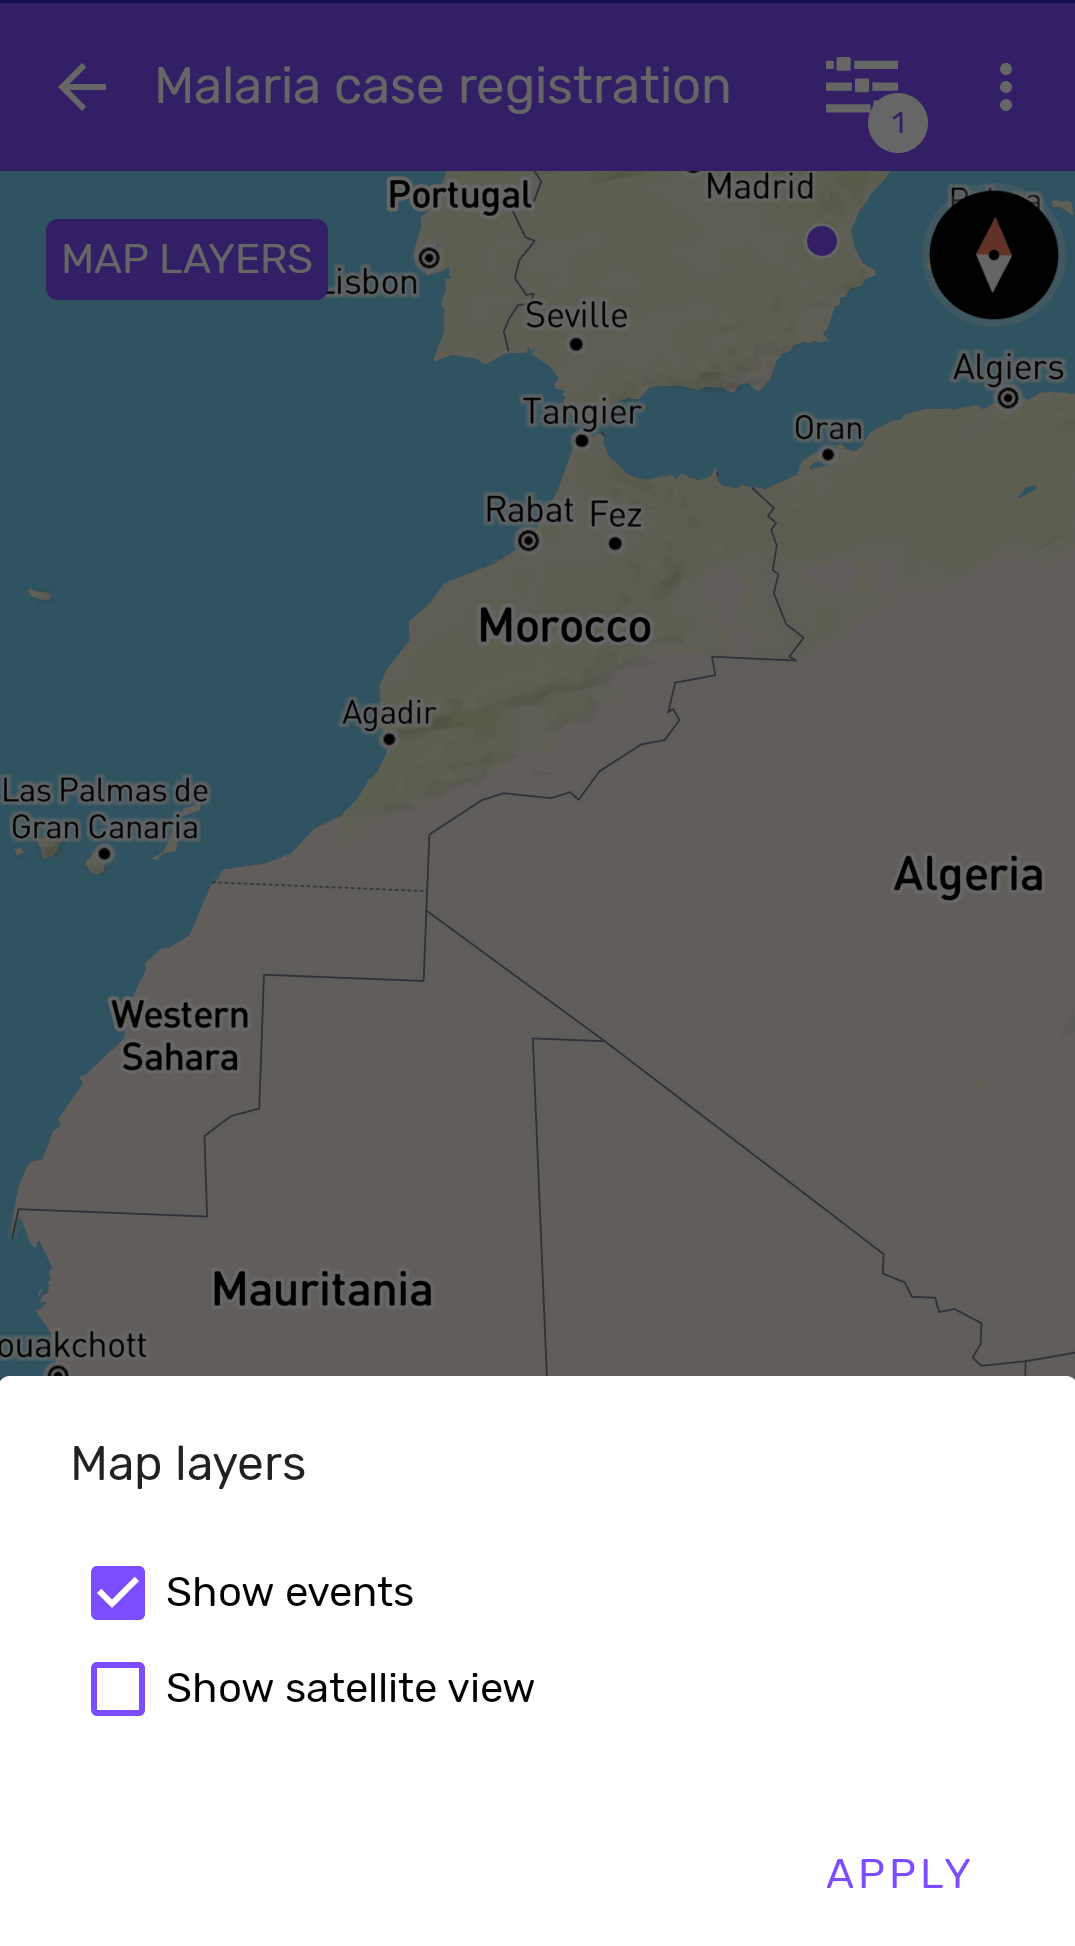
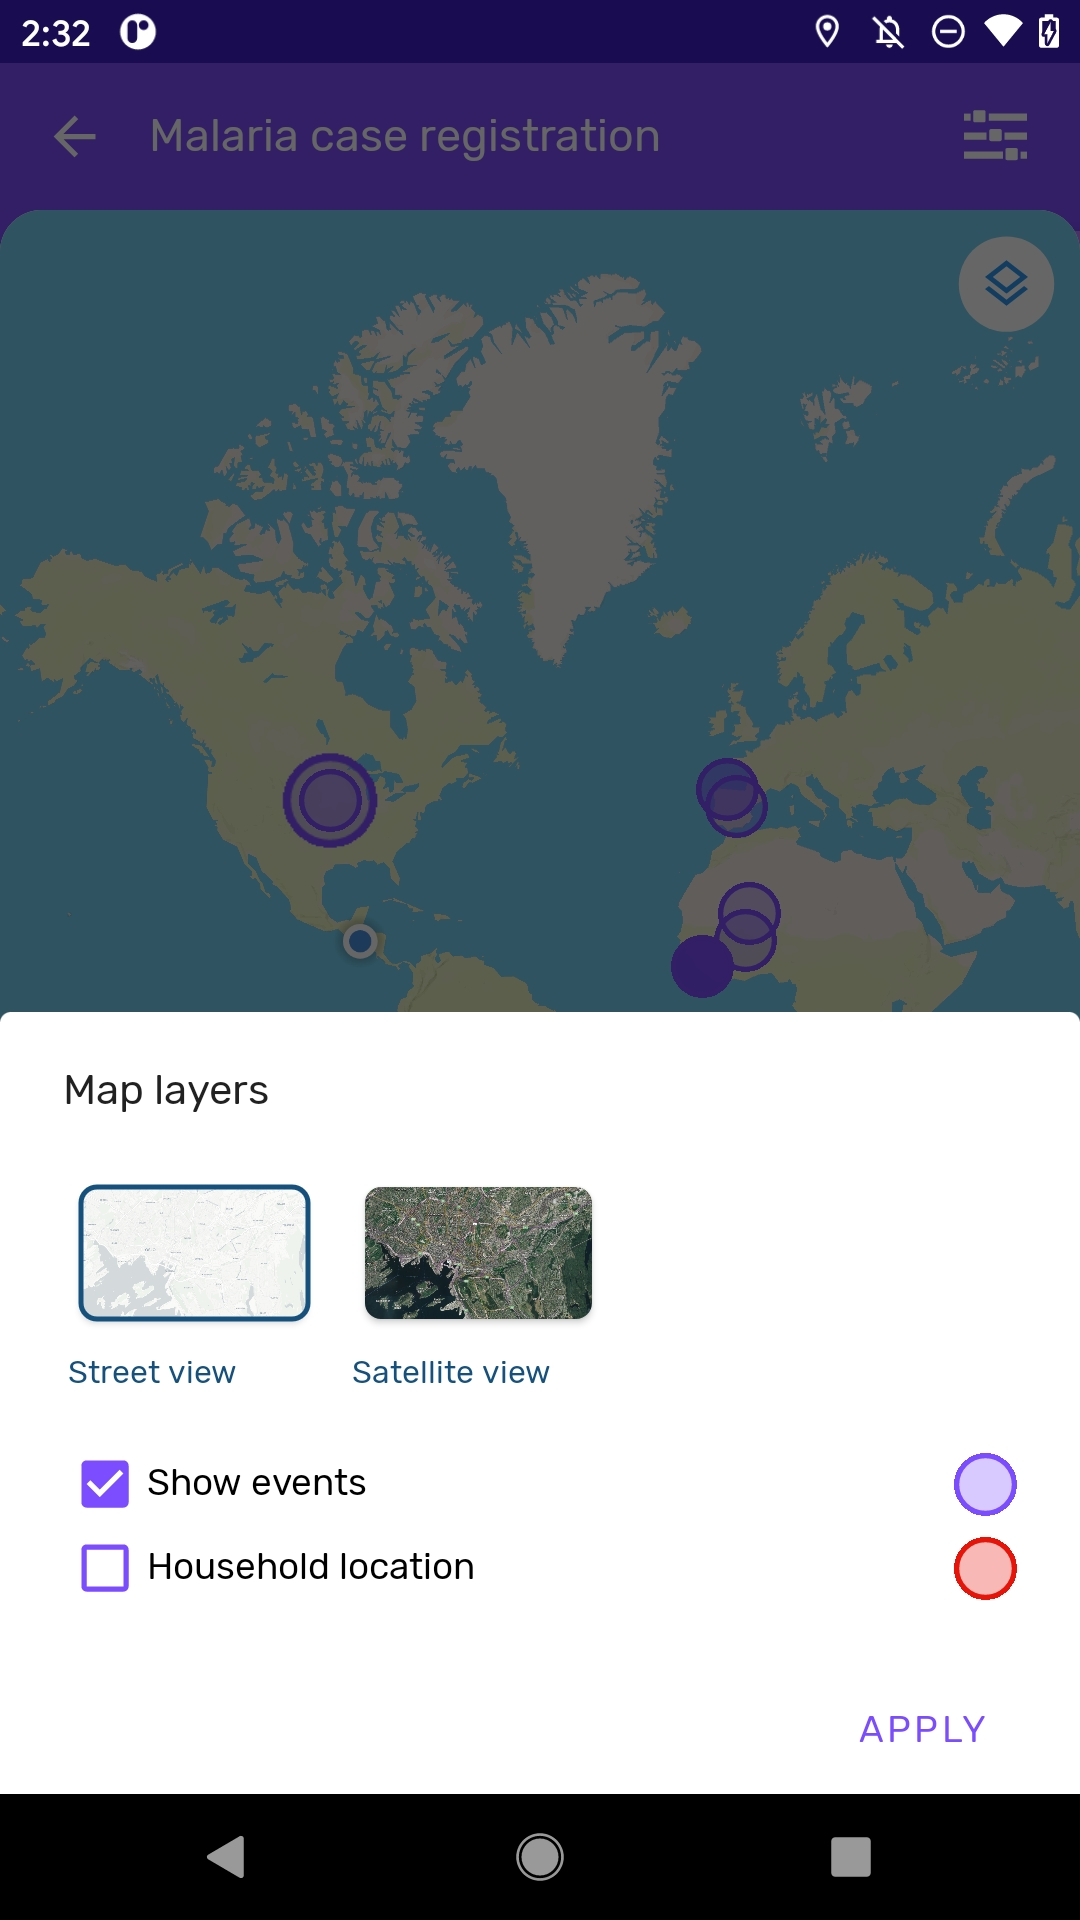
Programs

diff --git a/docs/src/commonmark/en/content/capture-app/features-supported.md b/docs/src/commonmark/en/content/capture-app/features-supported.md
@@ -2,6 +2,36 @@
 
 ## Programs in Android { #capture_app_programs_android }
 
+### New Navigation Bar
+
+Use the new navigation bar to move from one screen to another.
+
+#### Events
+
+1. Details
+2. Data Entry
+3. Analytics
+4. Notes
+
+![](resources/images/image141.jpg)
+
+#### TEI Dashboard
+
+1. Details
+2. Analytics
+3. Relationships
+4. Notes
+   
+![](resources/images/image142.jpg)
+
+#### Event listing for event and tracker programs
+
+  1. List view
+  2. Map view
+
+![](resources/images/image143.jpg)
+![](resources/images/image144.jpg)
+
 ### Complete/Re-open event { #capture_app_programs_complete_reopen }
 
 
@@ -20,7 +50,7 @@ Two options will be presented:
 
 > **Note**
 >
-> To verify if an event is completed look at the color of the box, it must be grey; and also have the label 'Event Completed' on it. It applies the same legend set than the web UI.
+> To verify if an event is completed look at the icon, it must be a green checked box.
 
 > **Note**
 >
@@ -51,6 +81,10 @@ The app will now list the name of the mandatory fields missing when the user tri
 
 ![](resources/images/image117.png){ width=25%}
 
+The errors and warnings are also shown as an indicator next to the section name.
+
+![](resources/images/image145.png){ width=25%}
+
 ### Event Notes { #capture_app_programs_event_notes }
 
 
@@ -72,12 +106,15 @@ The possible layers to display in maps are:
 - Program Stage coordinates (Only for programs with registration)
 - Relationships (Only for programs with registration)
 - Heatmap (Only for programs with registration)
+- Tracked Entity Attributes (Coordinates Value Type - Only for programs with registration)
+- Data Elements (Coordinates Value Type)
 
 The user can select one or more layers to be displayed.
 
 The maps will display coordinates and polygons.
 
 ![](resources/images/image125.png){ width=25%}
+![](resources/images/image146.png){ width=25%}
 ![](resources/images/image136.png){ width=25%}
 
 #### Map Carousel { #capture_app_programs_map_carousel }
@@ -91,6 +128,10 @@ On the map view of the program, a carousel of cards is displayed, one for each e
 ![](resources/images/image126.jpg){ width=25%} 
 ![](resources/images/image133.png){ width=25%}
 
+Each card displays Tracked Entity Attributes (for Tracker Programs) and Data Elements (for Event programs) configured as 'Display in list'.
+
+![](resources/images/image147.png){ width=25%}
+
 #### Map Relationships { #capture_app_programs_map_relationships }
 
 In tracker, the user can see relationships on a map by tapping the map icon on the relationships tab.
@@ -101,10 +142,43 @@ In tracker, the user can see relationships on a map by tapping the map icon on t
 * If one or both TEIs have a polygon as coordinate, the line goes from (and to) the nearest point in the polygon of both TEIs.
 
 ![](resources/images/image132.png){ width=25%}
-![](resources/images/image127.png){ width=25%}
+
+#### Map Current Location
+
+If the user grants location permissions to the App, the map will show the current location represented as a blue color dot.
+
+![](resources/images/image148.png){ width=25%}
+
+#### Map Navigation to Location
+
+If the TEI or event has coordinates a navigation icon will be displayed at the top right of the card. Click to open the location in a maps App.
+
+![](resources/images/image149.jpg){ width=25%}
+![](resources/images/image150.jpg){ width=25%}
+![](resources/images/image151.jpg){ width=25%}
+
+### Working Lists
+
+Working lists are now compatible with the Android app. Once a list is selected, the filters will be blocked and not allowed to change until the user resets the search.
+
+Working lists are available in Event and Tracker Programs.
+
+![](resources/images/image152.jpg){ width=25%}
+![](resources/images/image153.jpg){ width=25%}
+
+### Program Indicators
+
+The new analytics tab now supports displaying text and key/value pair in feedback or indicator section.
+
+![](resources/images/image154.jpg){ width=25%}
+
+### Legends
+
+Legends are now available in Android App. It will be shown next to value with the respective color and label.
+
+![](resources/images/image155.jpg){ width=25%}
 
 ## Program with registration in Android { #capture_app_programs_with_reg }
-
 
 ### TEI Card Design { #capture_app_programs_tei_design }
 
@@ -134,12 +208,12 @@ To complete or deactivate an enrollment, click on three dot menu in the right up
 ### Reset Search Fields { #capture_app_programs_reset_search }
 
 
-All tracker programs will take the user to the search screen. The search fields are used to look up for a specific entity, and the circled arrow at the top right corner to reset the search. All fields will be blank for the user to do a new search.
+All tracker programs will take the user to the search screen. The search fields are used to look up for a specific entity, and the circled arrow to reset the search. All fields will be blank for the user to do a new search.
 
 At first, the user is obligated to do a search. if there are no coincidences, the search button will change to an ‘Add’ button for the user to create a new enrollment.
 
-![](resources/images/image78.PNG){ width=25%}
-![](resources/images/image79.PNG){ width=25%}
+![](resources/images/image78.png){ width=25%}
+![](resources/images/image79.png){ width=25%}
 
 ### Search screen for all Tracked Entity Type { #capture_app_programs_search_screen }
 
@@ -214,6 +288,27 @@ The ‘breaking the glass’ feature is not yet supported in DHIS2 Android Captu
 If Android users must be able to access TEI outside of their data capture org unit, the program should be configured with access level ‘Open.’
 
 ![](resources/images/image137.jpg){ width=25%}
+
+### Analytic charts
+
+It is possible to display the evolution in data elements as charts, values or tables. These data elements must be a numeric value type and configured in a repeatable stage.
+
+1. Single value: It will display the newest value in the program.
+   
+![](resources/images/image156.jpg){ width=25%}
+
+2. Charts: It is possible to display the values as a line chart o as a bar chart.
+
+![](resources/images/image157.jpg){ width=25%}
+![](resources/images/image158.jpg){ width=25%}
+
+The Nutrition Growth charts are shown according to the WHO standards.  This option will render a background image and apply the axis (0 to 5 monthly)according to the WHO model.
+
+ ![](resources/images/image159.jpg){ width=25%}
+   
+3. Tables: It will display the data elements or indicators in the rows and the periods in the columns.
+
+![](resources/images/image160.jpg){ width=25%} 
 
 ## Supported features Overview { #capture_app_programs_supported_features }
 
